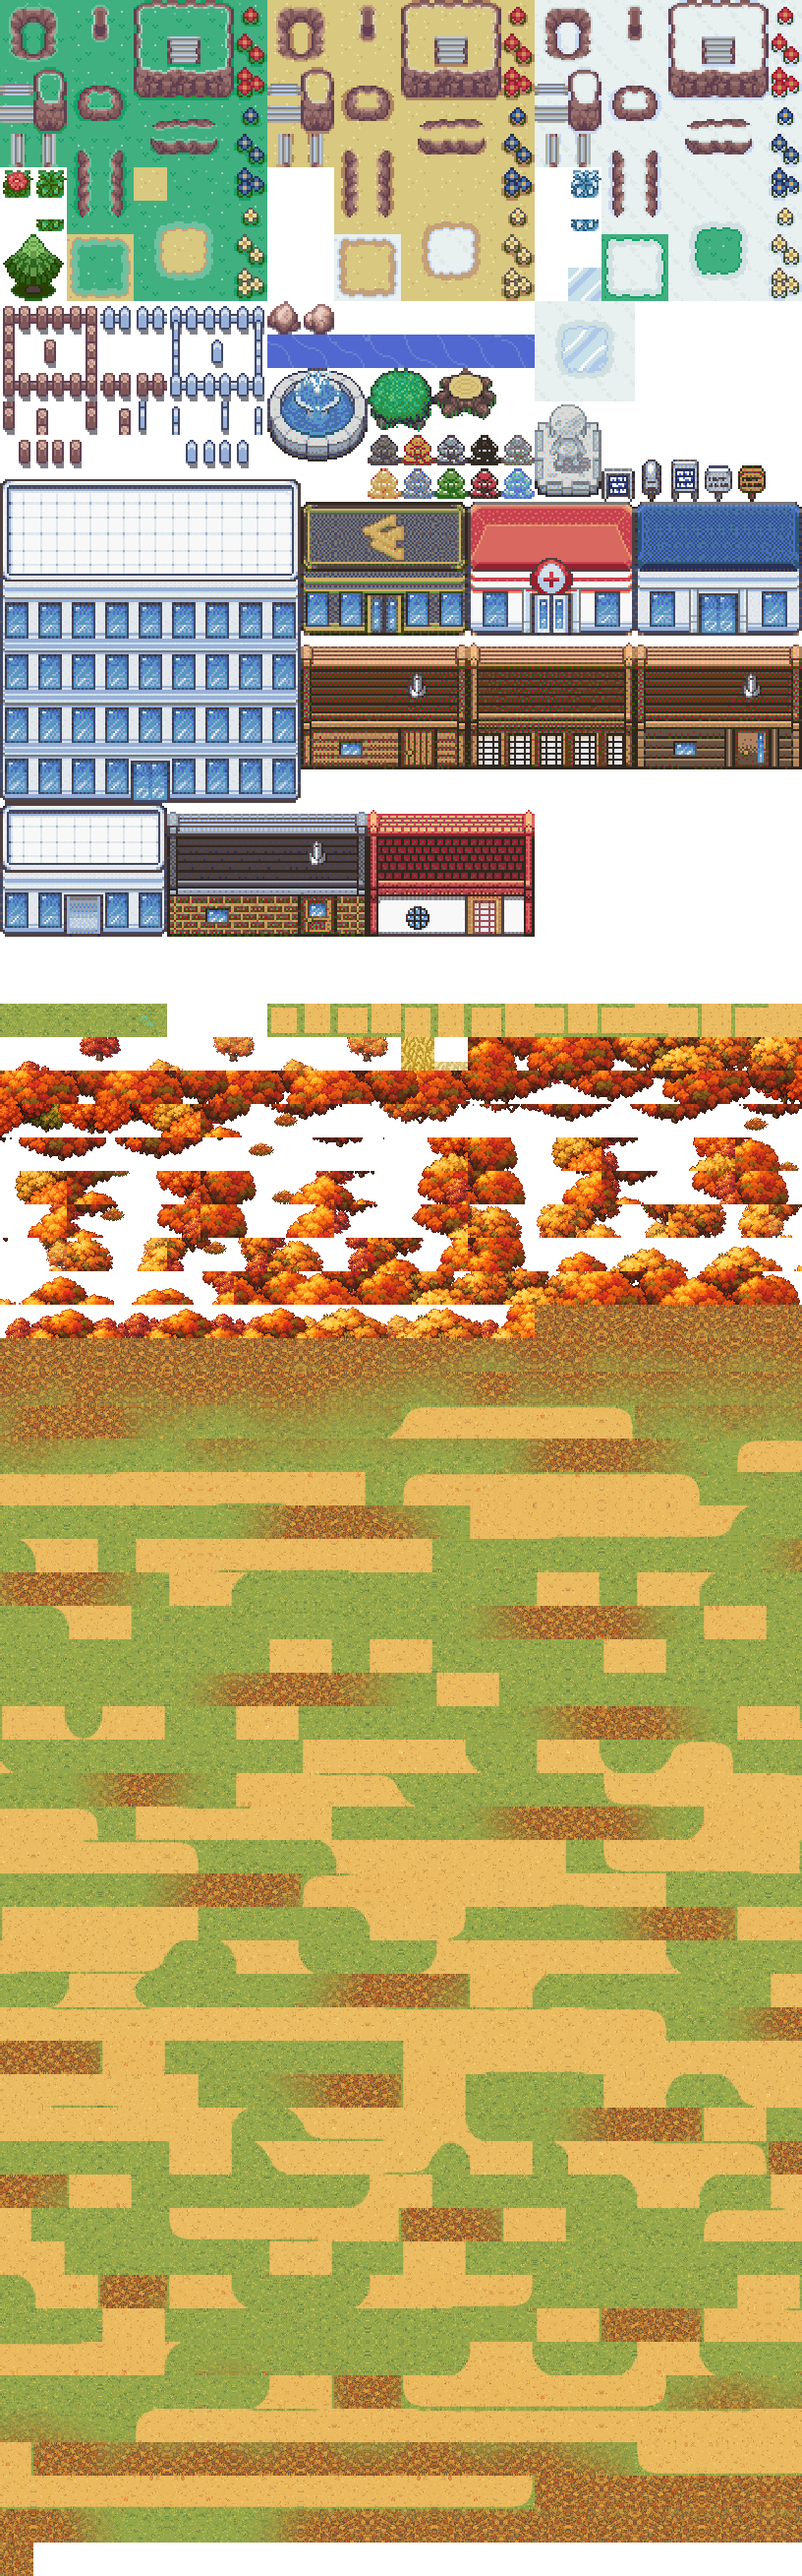
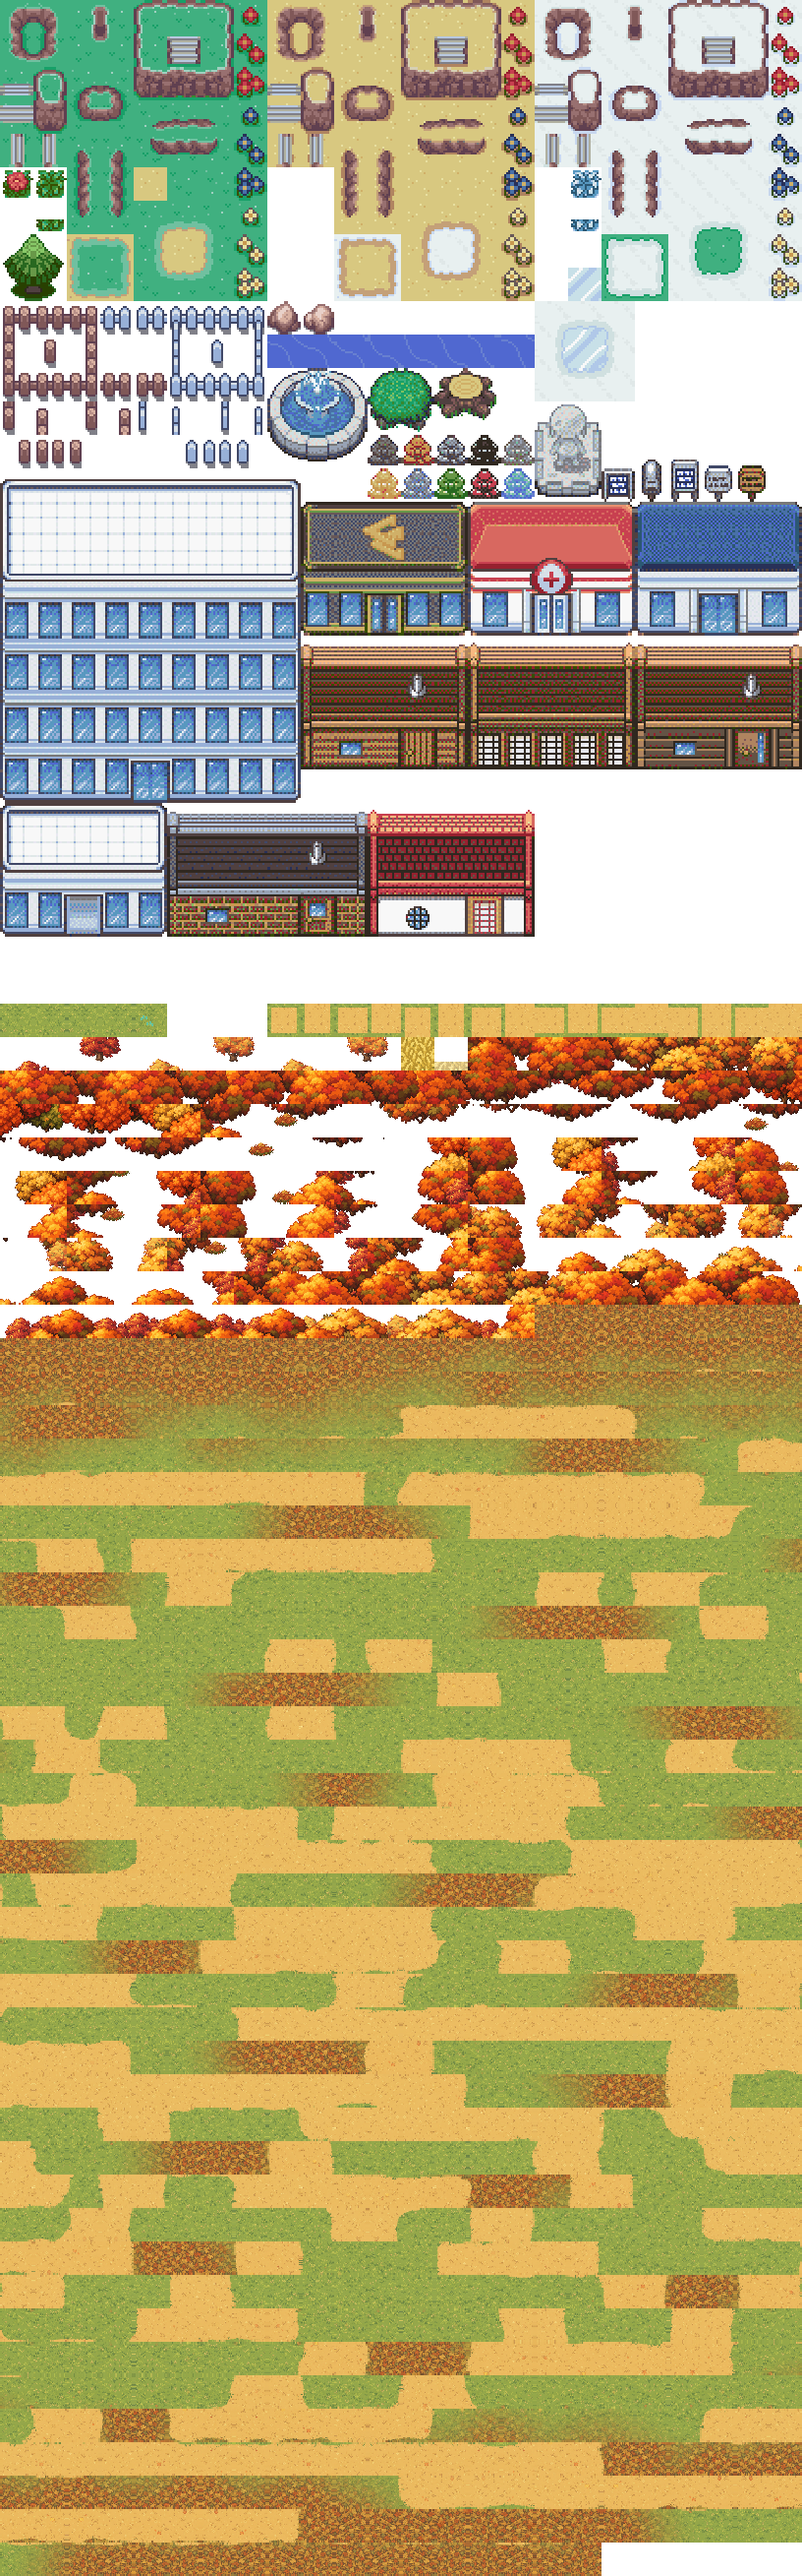
fix: 흙길과 숲 바닥 경계 자연스럽게 개선

diff --git a/scripts/poke-lounge/generate-autumn-map.py b/scripts/poke-lounge/generate-autumn-map.py
@@ -8,7 +8,7 @@ from collections import deque
 from PIL import Image, ImageChops, ImageDraw, ImageFilter
 
 ROOT = Path(__file__).resolve().parents[2]
-OUT = ROOT / 'output/natural-grass-edge'
+OUT = ROOT / 'output/natural-path-verges'
 OUT.mkdir(parents=True, exist_ok=True)
 W, H, S = 40, 24, 32
 atlas = Image.open(ROOT/'apps/web/public/assets/poke-lounge/world/autumn-forest-32px-extruded.png').convert('RGBA')
@@ -220,8 +220,14 @@ earth=Image.composite(ground_surface('04-golden-earth-leaves.png'),ground_surfac
 path_mask=Image.new('L',canopy.size)
 path_draw=ImageDraw.Draw(path_mask)
 for x,y in paths:path_draw.rectangle((x*S,y*S,(x+1)*S-1,(y+1)*S-1),fill=255)
-# Threshold the softened shape to round both kinds of corner without blurring the artwork.
-rounded_mask=path_mask.filter(ImageFilter.GaussianBlur(10)).point(lambda a:255 if a>=128 else 0)
+# Vary the contour in world coordinates so worn verges stay continuous across tile seams.
+verge_rng=Random(241024)
+variation=Image.new('L',(W*2+1,H*2+1))
+variation.putdata([verge_rng.randrange(32,225) for _ in range(variation.width*variation.height)])
+variation=variation.resize(canopy.size,Image.Resampling.BICUBIC)
+soft_path=path_mask.filter(ImageFilter.GaussianBlur(6))
+rounded_mask=Image.frombytes('L',canopy.size,bytes(255 if a>=128+(n-128)*.5 else 0
+    for a,n in zip(soft_path.getdata(),variation.getdata())))
 rounded_draw=ImageDraw.Draw(rounded_mask)
 for x,y in grass:rounded_draw.rectangle((x*S,y*S,(x+1)*S-1,(y+1)*S-1),fill=0)
 assert all(rounded_mask.getpixel((x*S+S//2,y*S+S//2))==255 for x,y in paths)
@@ -229,7 +235,7 @@ assert all(not rounded_mask.crop((x*S,y*S,(x+1)*S,(y+1)*S)).getbbox() for x,y in
 assert ImageChops.subtract(rounded_mask,path_mask.filter(ImageFilter.MaxFilter(21))).getbbox() is None
 assert ImageChops.subtract(path_mask.filter(ImageFilter.MinFilter(21)),rounded_mask).getbbox() is None
 edge=rounded_mask.filter(ImageFilter.GaussianBlur(1.6))
-edge.putdata([255 if a==255 else min(255,max(0,(a-180+(g[1]-150)//2)*5)) if inside else 0
+edge.putdata([255 if a==255 else min(255,max(0,(a-170+(g[1]-150)*3)*5)) if inside else 0
               for a,inside,g in zip(edge.getdata(),rounded_mask.getdata(),ground.getdata())])
 assert ImageChops.subtract(edge,rounded_mask).getbbox() is None
 ground=Image.composite(earth,ground,edge)
@@ -242,11 +248,18 @@ for y in range(H):
         p=(x,y)
         box=(x*S,y*S,(x+1)*S,(y+1)*S)
         tile=ground.crop(box)
-        if p not in paths|grass and (not world[y*W+x] or p in forest_cells|marked_leaves):
+        if p not in grass and (not world[y*W+x] or p in forest_cells|marked_leaves):
             coverage=soft_floor.crop(box)
             scatter=scattered_leaves.crop(box)
             if p in forest_cells:
                 coverage=ImageChops.lighter(coverage,forest_core.crop(box))
+            # Follow the rendered path edge so its grassy corners do not expose square tile seams.
+            verge=ImageChops.invert(edge.crop(box))
+            coverage=ImageChops.multiply(coverage,verge)
+            scatter.putalpha(ImageChops.multiply(scatter.getchannel('A'),verge))
+            path_interior=edge.crop(box).point(lambda a:255 if a==255 else 0)
+            assert not ImageChops.multiply(coverage,path_interior).getbbox()
+            assert not ImageChops.multiply(scatter.getchannel('A'),path_interior).getbbox()
             if coverage.getbbox() or scatter.getbbox():
                 sx,sy=x%4*S,y%4*S
                 carpet=leaf_pattern.crop((sx,sy,sx+S,sy+S));carpet.putalpha(coverage);tile.alpha_composite(carpet)
@@ -258,7 +271,8 @@ for y in range(H):
             baked_tiles.append(tile)
         below.append(floor_cache[pixels])
 assert len(below)==W*H and all(gid>=759+len(forest_tiles) for gid in below)
-assert forest_cells <= set(leaf_cells) and not set(leaf_cells) & (paths|grass)
+assert forest_cells <= set(leaf_cells) and not set(leaf_cells) & grass
+assert set(leaf_cells) & paths  # Rounded path tiles retain leaf-covered verges.
 base_atlas=atlas.crop((0,0,816,1088))
 atlas=Image.new('RGBA',(816,math.ceil((758+len(baked_tiles))/24)*34))
 atlas.paste(base_atlas,(0,0))
@@ -296,9 +310,9 @@ assert {(i%W,i//W) for i,gid in enumerate(world) if gid in collision_gids} == co
 source_path=ROOT/'apps/web/public/assets/poke-lounge/world/autumn-forest-source.json'
 source=json.loads(source_path.read_text())
 source.update(tileCount=atlas.width//34*(atlas.height//34),processing='Preserve paths and service game objects; reshape connected rice encounter patches into tapered row runs. Bake original introduction-matched ground, earth, natural path verges, autumn trees and forest-floor falloff into the current 32px tile map.')
-source['ground']={'sourceManifest':'original-ground/source.json','tiles':len(floor_cache),'tileRange':[759+len(forest_tiles),758+len(baked_tiles)],'patchSize':128,'repeatSize':256,'leafFadeDistancePixels':180,'cornerSmoothingPixels':10,'placement':'Mirror repeats in world coordinates for exact edge matching. Blend leaf variants toward forest edges, round convex and concave path corners, inset textured grass verges, then slice into extruded 32px tiles. Preserve path centers and keep the reshaped encounter patches clear of collision data.'}
+source['ground']={'sourceManifest':'original-ground/source.json','tiles':len(floor_cache),'tileRange':[759+len(forest_tiles),758+len(baked_tiles)],'patchSize':128,'repeatSize':256,'leafFadeDistancePixels':180,'cornerSmoothingPixels':6,'vergeVariationSeed':241024,'placement':'Mirror repeats in world coordinates for exact edge matching. Blend leaf variants toward forest edges, soften path corners with irregular grass and earth contours sampled across the whole map, then slice into extruded 32px tiles. Preserve path centers and keep encounter patches clear of collision data.'}
 source['gids'].update({'745-748':'original red maple','749-752':'original golden maple','753-756':'original golden maple'})
-source['forestFloor']={'textures':['original-autumn/07-dense-gold-floor.png','original-autumn/08-mixed-forest-floor.png','original-autumn/12-scattered-leaves.png'],'tiles':len({below[y*W+x] for x,y in leaf_cells}),'cells':len(leaf_cells),'forestCells':len(forest_cells),'scatterPatches':scatter_count,'fadeDistancePixels':64,'placement':'Original leaf ground at 100% beneath canopy groups, fading by distance to transparent over 64px; scattered leaves share the same falloff at 42% strength. Paths and encounter grass excluded.'}
+source['forestFloor']={'textures':['original-autumn/07-dense-gold-floor.png','original-autumn/08-mixed-forest-floor.png','original-autumn/12-scattered-leaves.png'],'tiles':len({below[y*W+x] for x,y in leaf_cells}),'cells':len(leaf_cells),'forestCells':len(forest_cells),'scatterPatches':scatter_count,'fadeDistancePixels':64,'placement':'Original leaf ground at 100% beneath canopy groups, fading by distance to transparent over 64px; scattered leaves share the same falloff at 42% strength. The rendered path mask clips leaves per pixel, retaining continuous foliage on grassy verges and rounded corners. Path interiors and encounter grass stay clear.'}
 source['bakedForest']={'sourceManifest':'original-autumn/source.json','seed':241022,
                        'counts':{name:sum(tree['group']==name for tree in trees) for name in groups},
                        'tileRange':[759,758+len(forest_tiles)],'accentTrees':accent_sources,
